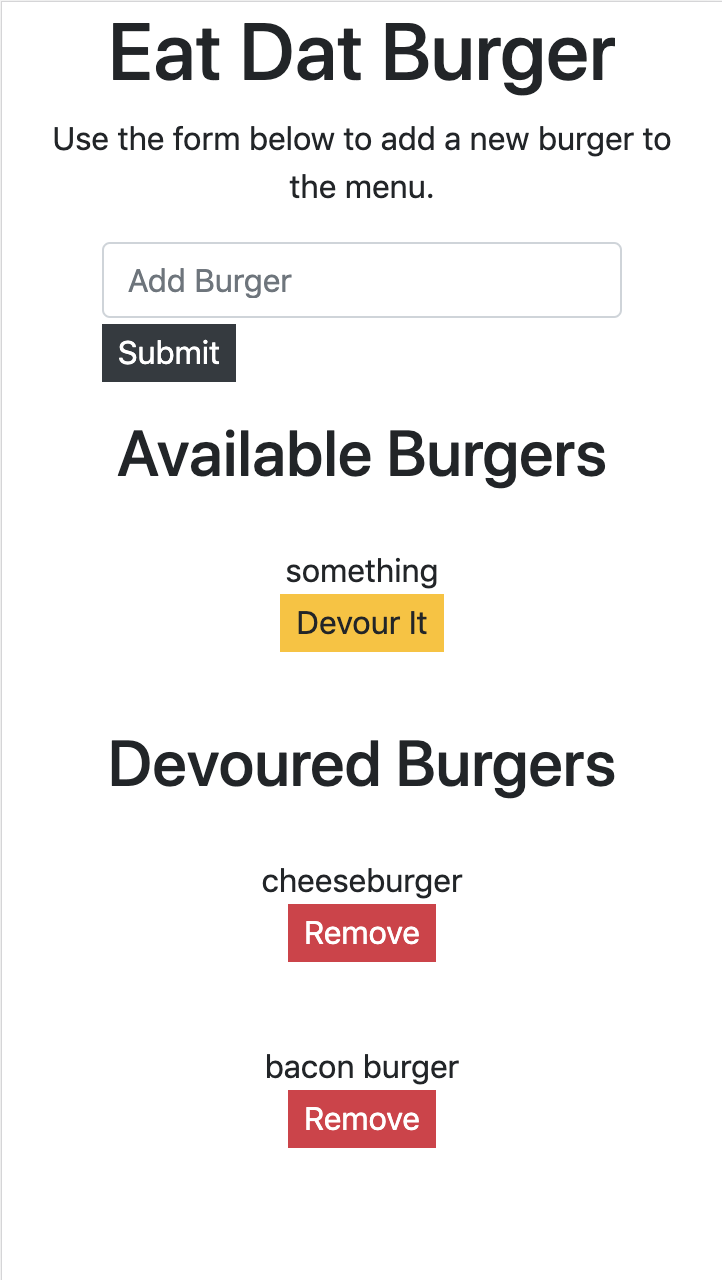
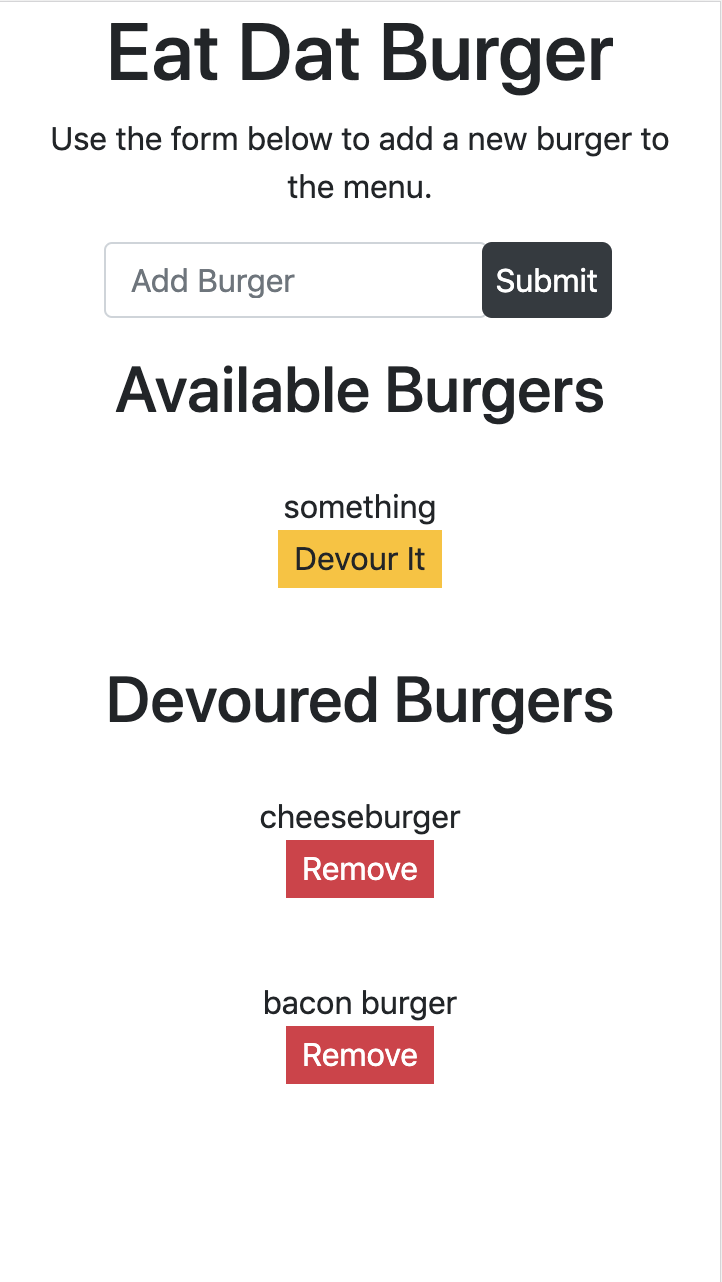
updated screenshot

diff --git a/public/assets/css/burger_style.css b/public/assets/css/burger_style.css
@@ -16,13 +16,26 @@
 #add-burger button {
     margin-left: 10px;
 }
+button#submit-btn {
+    height: 100%;
+    border: none;
+    margin: 0;
+    margin-left: -3px;
+    border-radius: 5px;
+}
+#burger-name, #submit-btn {
+    display: inline-block;
+}
+#burger-name {
+    width: 75%;
+}
 @media (max-width: 960px){
     .burger-inner-wrapper {
         width: 100%;
         display: block;
     }
-    #add-burger button {
+    /* #add-burger button {
         margin-left: 0;
         margin-top: 3px;
-    }
+    } */
 }
